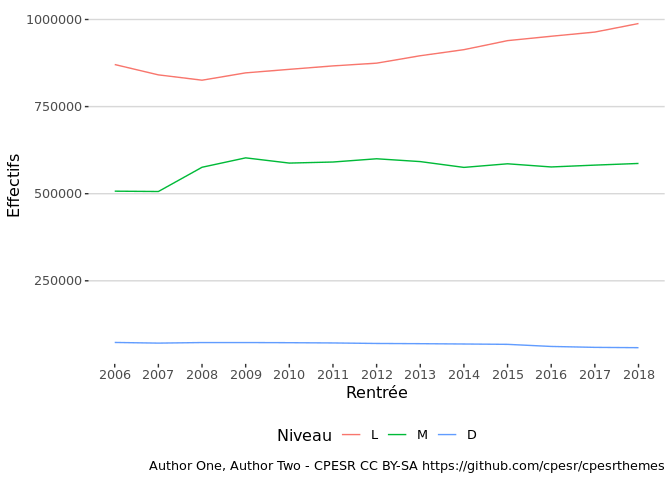
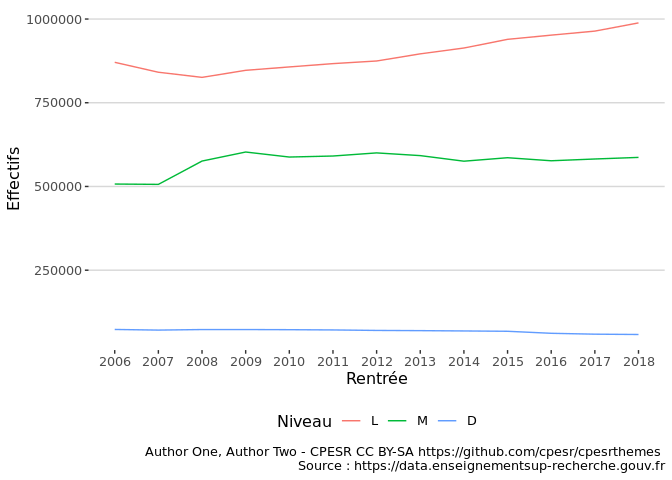
Ajout de la gestion des sources

diff --git a/README.md b/README.md
@@ -55,7 +55,8 @@ ggplot(esr, aes(x=Rentrée, y=Effectifs, color=Niveau, group=Niveau)) +
   theme_cpesr_cap(authors=c("Author One","Author Two"), 
               camille=FALSE, 
               licence="CC BY-SA",
-              url="https://github.com/cpesr/cpesrthemes" )
+              url="https://github.com/cpesr/cpesrthemes",
+              source="https://data.enseignementsup-recherche.gouv.fr")
 ```
 
 ![](README_files/figure-gfm/utilisation.perso-1.png)<!-- -->
@@ -71,7 +72,8 @@ library(ggcpesrthemes)
 theme_cpesr_setup(authors=c("Author One","Author Two"), 
                   camille=FALSE, 
                   licence="CC BY-SA",
-                  url="https://github.com/cpesr/cpesrthemes")
+                  url="https://github.com/cpesr/cpesrthemes",
+                  source="https://data.enseignementsup-recherche.gouv.fr")
 
 ggplot(esr, aes(x=Rentrée, y=Effectifs, color=Niveau, group=Niveau)) + 
   geom_line() + 
